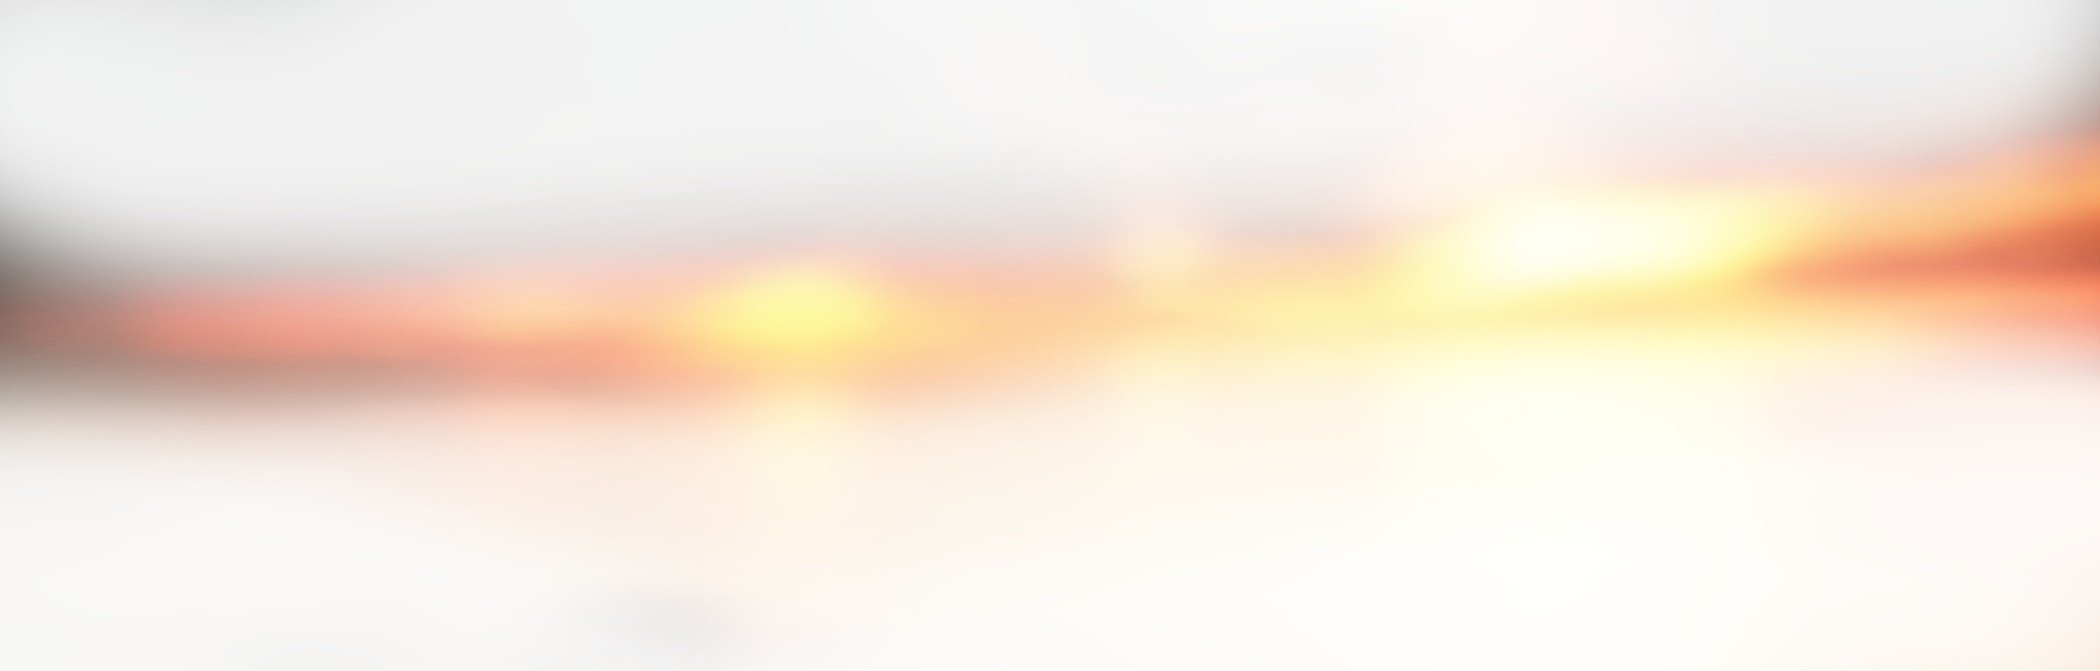
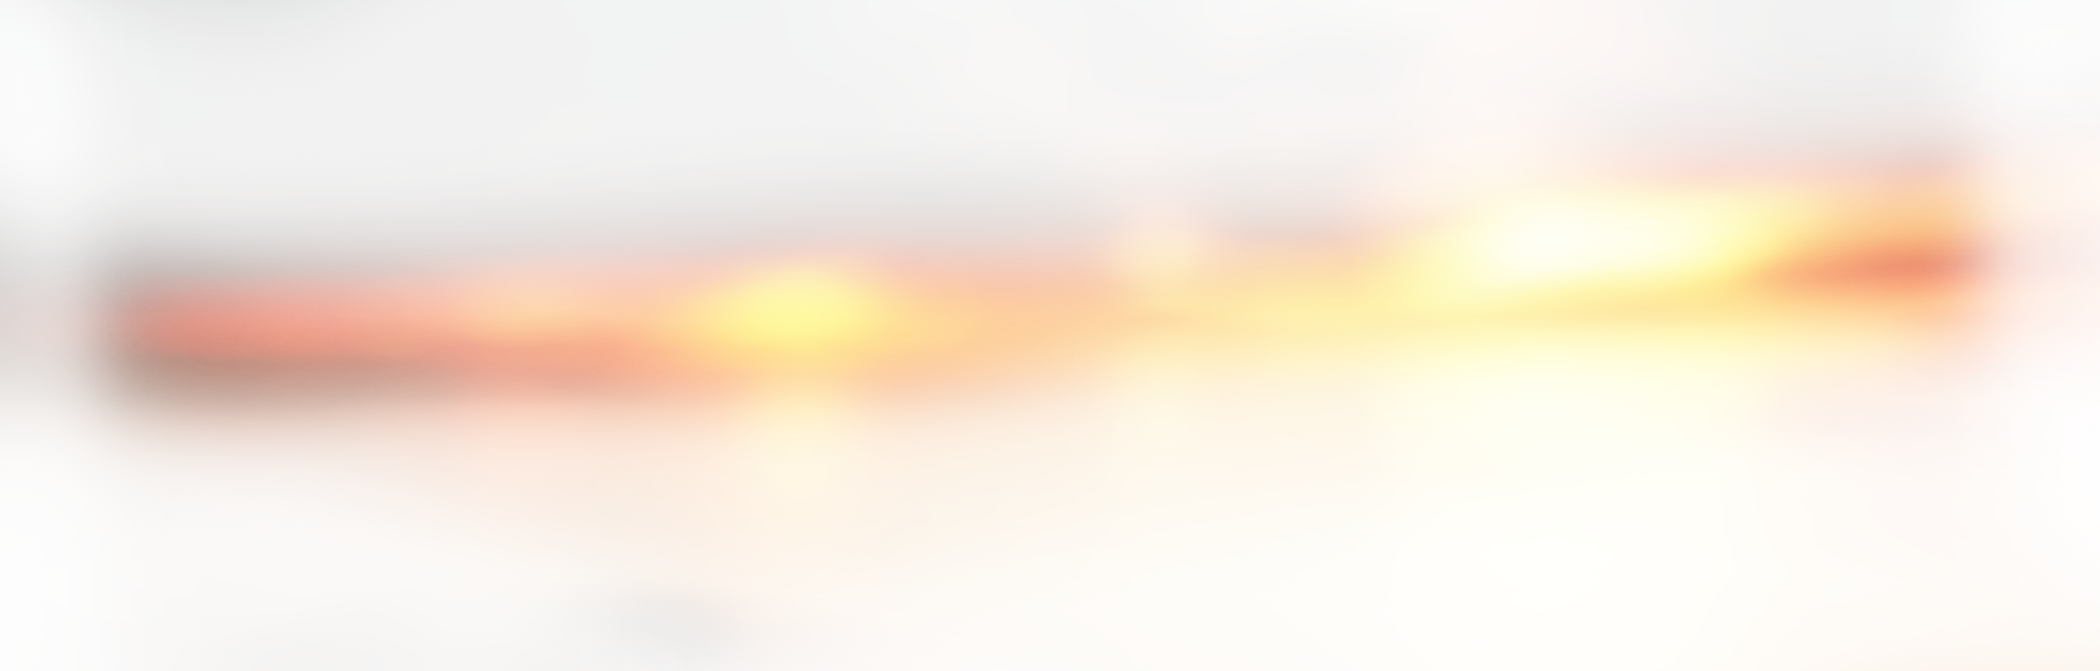
balls are flyin

Changed region(s): [[0.9286, 0.0, 1.0, 0.5961], [0.0, 0.2683, 0.0619, 0.6557]]

diff --git a/js/engine.js b/js/engine.js
@@ -131,6 +131,50 @@ $(function () {
       }
     }
 
+    function moveBalls(obj){
+        obj.transition({x: '-150px', y:'10px' }, 9000, function(){
+          obj.transition({x: '50px', y: '-10px'}, 7000, function(){
+            obj.transition({x: '0', y: '0'}, 2000, function(){
+              moveBalls(obj);
+            });
+          });
+        });
+    }
+
+    function moveBalls2(obj){
+        obj.transition({x: '50px', y:'5px' }, 10000, function(){
+          obj.transition({x: '-40px', y: '-5px'}, 8000, function(){
+            obj.transition({x: '0', y: '0'}, 3000, function(){
+              moveBalls2(obj);
+            });
+          });
+        });
+    }
+
+    function trueWater(obj){
+        obj.transition({x: '30px', y:'15px', opacity: '0.5' }, 7000, function(){
+          obj.transition({x: '-20px', y: '0', opacity: 1 }, 5000, function(){
+            obj.transition({x: '0', y: '0'}, 2000, function(){
+              trueWater(obj);
+            });
+          });
+        });
+    }
+
+    $('.intro-text').dblclick(function(){
+           $('.flash').animate({opacity: 1}, 300, function(){
+              $('.flash').animate({opacity: 0}, 200, function(){
+                   $('.flash').animate({opacity: '0.5'}, 400, function(){
+                        $('.flash').animate({opacity: '0.1'}, 1200);
+                   });
+              });
+           });
+    });
+
+    moveBalls($('.ball-focus'));
+    moveBalls2($('.ball-blur'));
+    trueWater($('.water'));
+
     $('.flash').everyTime(10000, function(){
 
         $(this).animate({opacity: 1}, 500, function(){

diff --git a/css/root.css b/css/root.css
@@ -23,10 +23,10 @@ body { overflow-x: hidden; background-color: ##4d4741;}
 
 .call-box { width: 960px; margin: 0 auto; }
 
-.intro-text { text-align: center ; }
+.intro-text { text-align: center; margin-top: 40px; }
   .intro-text h1 { color: rgba(255,255,255,0.6); font-size: 5em; font-family: 'PT Sans Narrow'; font-weight: 3600; letter-spacing: 15px;
    text-shadow: 0px 3px 3px rgba(0,0,0,0.5); padding-top: 20px; }
-  .intro-text span { color: rgba(255,255,255,0.5); font-size: 30px; letter-spacing: 3px; font-family: 'PT Sans Narrow'; font-weight: 400; padding-top: 70px; text-shadow: 0px 2px 2px rgba(0,0,0,0.3); }
+  .intro-text span { color: rgba(255,255,255,0.5); font-size: 30px; letter-spacing: 3px; font-family: 'PT Sans Narrow'; font-weight: 400; padding-top: 50px; text-shadow: 0px 2px 2px rgba(0,0,0,0.3); }
 
 .button-big { margin-top: 110px; }
 

diff --git a/index.php b/index.php
@@ -46,9 +46,13 @@
         .focused { opacity: 1; width: 110%; position: absolute; height: 671px; z-index: 2; top: 0px; left: -5%; background: url(images/px/focus.png) left top; }
         .blurry { width: 110%; position: absolute; height: 671px; top: 0px; left: -5%; background: url(images/px/back.jpg) left top; }
         .darkclouds { opacity: 0.7; width: 110%; position: absolute; height: 671px; top: 0px; z-index: 3; left: -5%; background: url(images/px/darkclouds-2x.png) left top; }
+
+        .raindrops { opacity: 1; width: 110%; position: absolute; height: 671px; top: 0px; z-index: 3; left: -5%; background: url(images/px/raindrops.png) left top; }
+
         .flash { opacity:0.3; width: 110%; position: absolute; height: 671px; top: 0px; z-index: 3; left: -5%; background: url(images/px/flash-2x.png) left top; }
         .water { opacity:0.8; width: 110%; position: absolute; height: 671px; top: 0px; z-index: 3; left: -5%; background: url(images/px/water.png) left top; }
-
+        .ball-blur { opacity:0.8; width: 400px; position: absolute; height: 494px; top: 210px; z-index: 3; right: 15%; background: url(images/px/ball-blur.png) left top; }
+        .ball-focus { opacity:1; width: 577px; position: absolute; height: 494px; top: 160px; z-index: 3; left: 0px; background: url(images/px/ball-focus.png) left top; }
         .px-box { width: 100%; height: 670px; padding: 0; margin:0; position: absolute; left:0; top: 0;}
     </style>
 
@@ -71,11 +75,14 @@
 
         <div id="px-box" class="px-box">
             <ul id="scene" class="scene">
+
                 <li class="layer" data-depth="0.10"><div class="darkclouds trigger"></div></li>
                 <li class="layer" data-depth="0.20"><div class="blurry trigger"></div></li>
                 <li class="layer" data-depth="0.80"><div class="focused target"></div></li>
+                <li class="layer" data-depth="0.50"><div class="ball-blur"></div></li>
+                <li class="layer" data-depth="1.00"><div class="ball-focus"></div></li>
                 <li class="layer" data-depth="0.40"><div class="flash"></div></li>
-                <li class="layer" data-depth="0.50"><div class="water"></div></li>
+                <li class="layer" data-depth="0.90"><div class="water"></div></li>
             </ul>
         </div>
 
@@ -84,7 +91,7 @@
 
                     <!--  <div class="4u">
                         <span class="me image image-full"><img  src="images/me.jpg" alt="" /></span>
-                    </div>  -->
+                    </div>-->
                     <div class="15u intro-text">
                         <h1>Вебскейпс</h1>
                         <span>виртуальные пространства</span>
